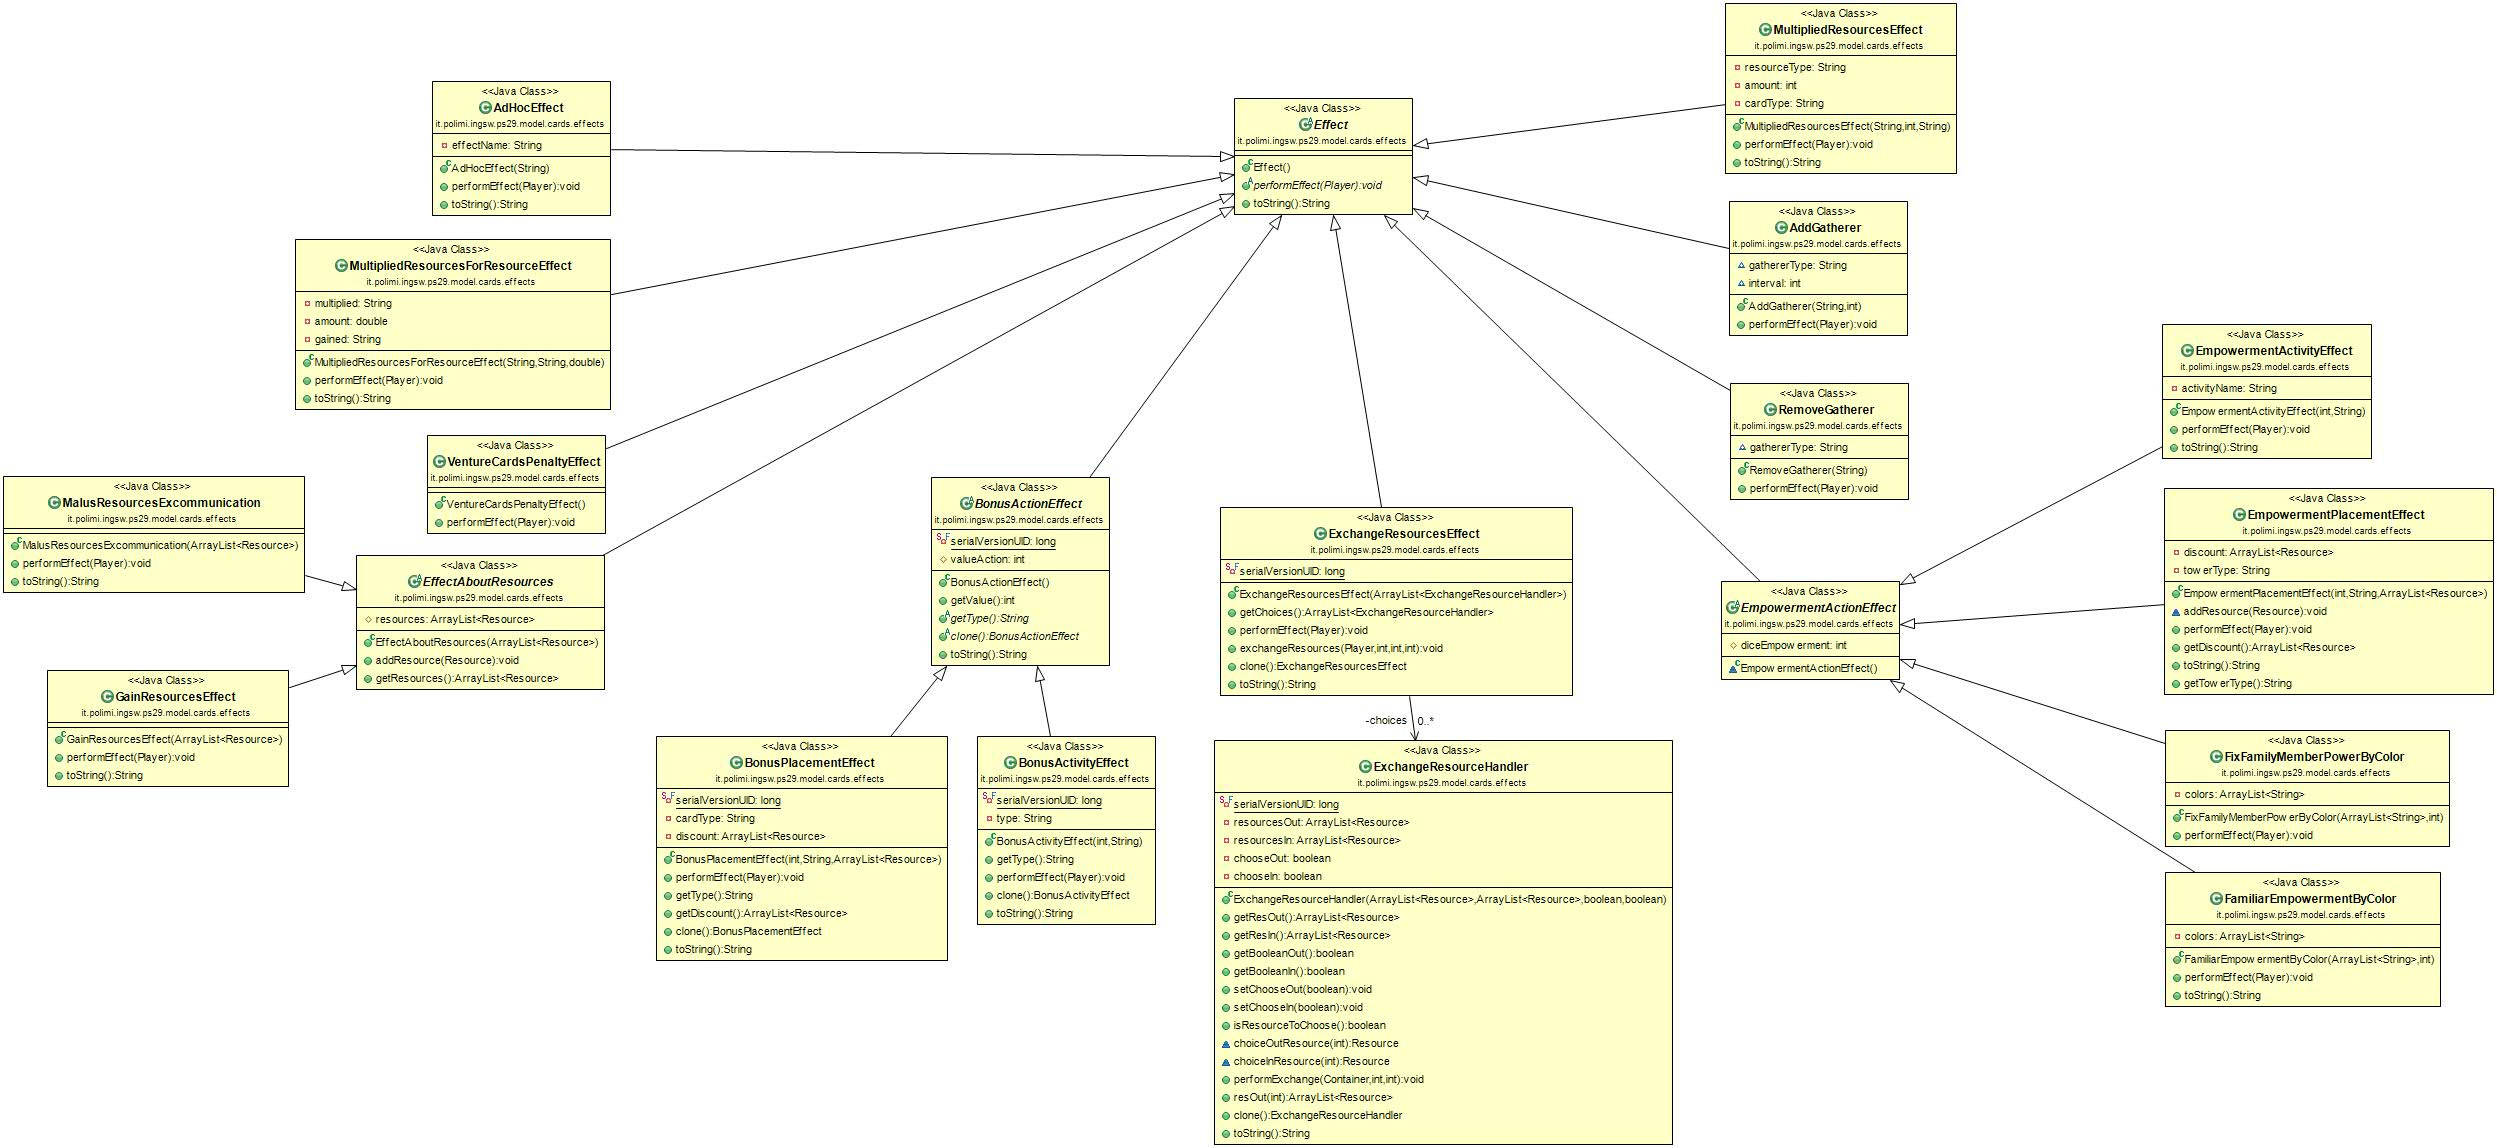
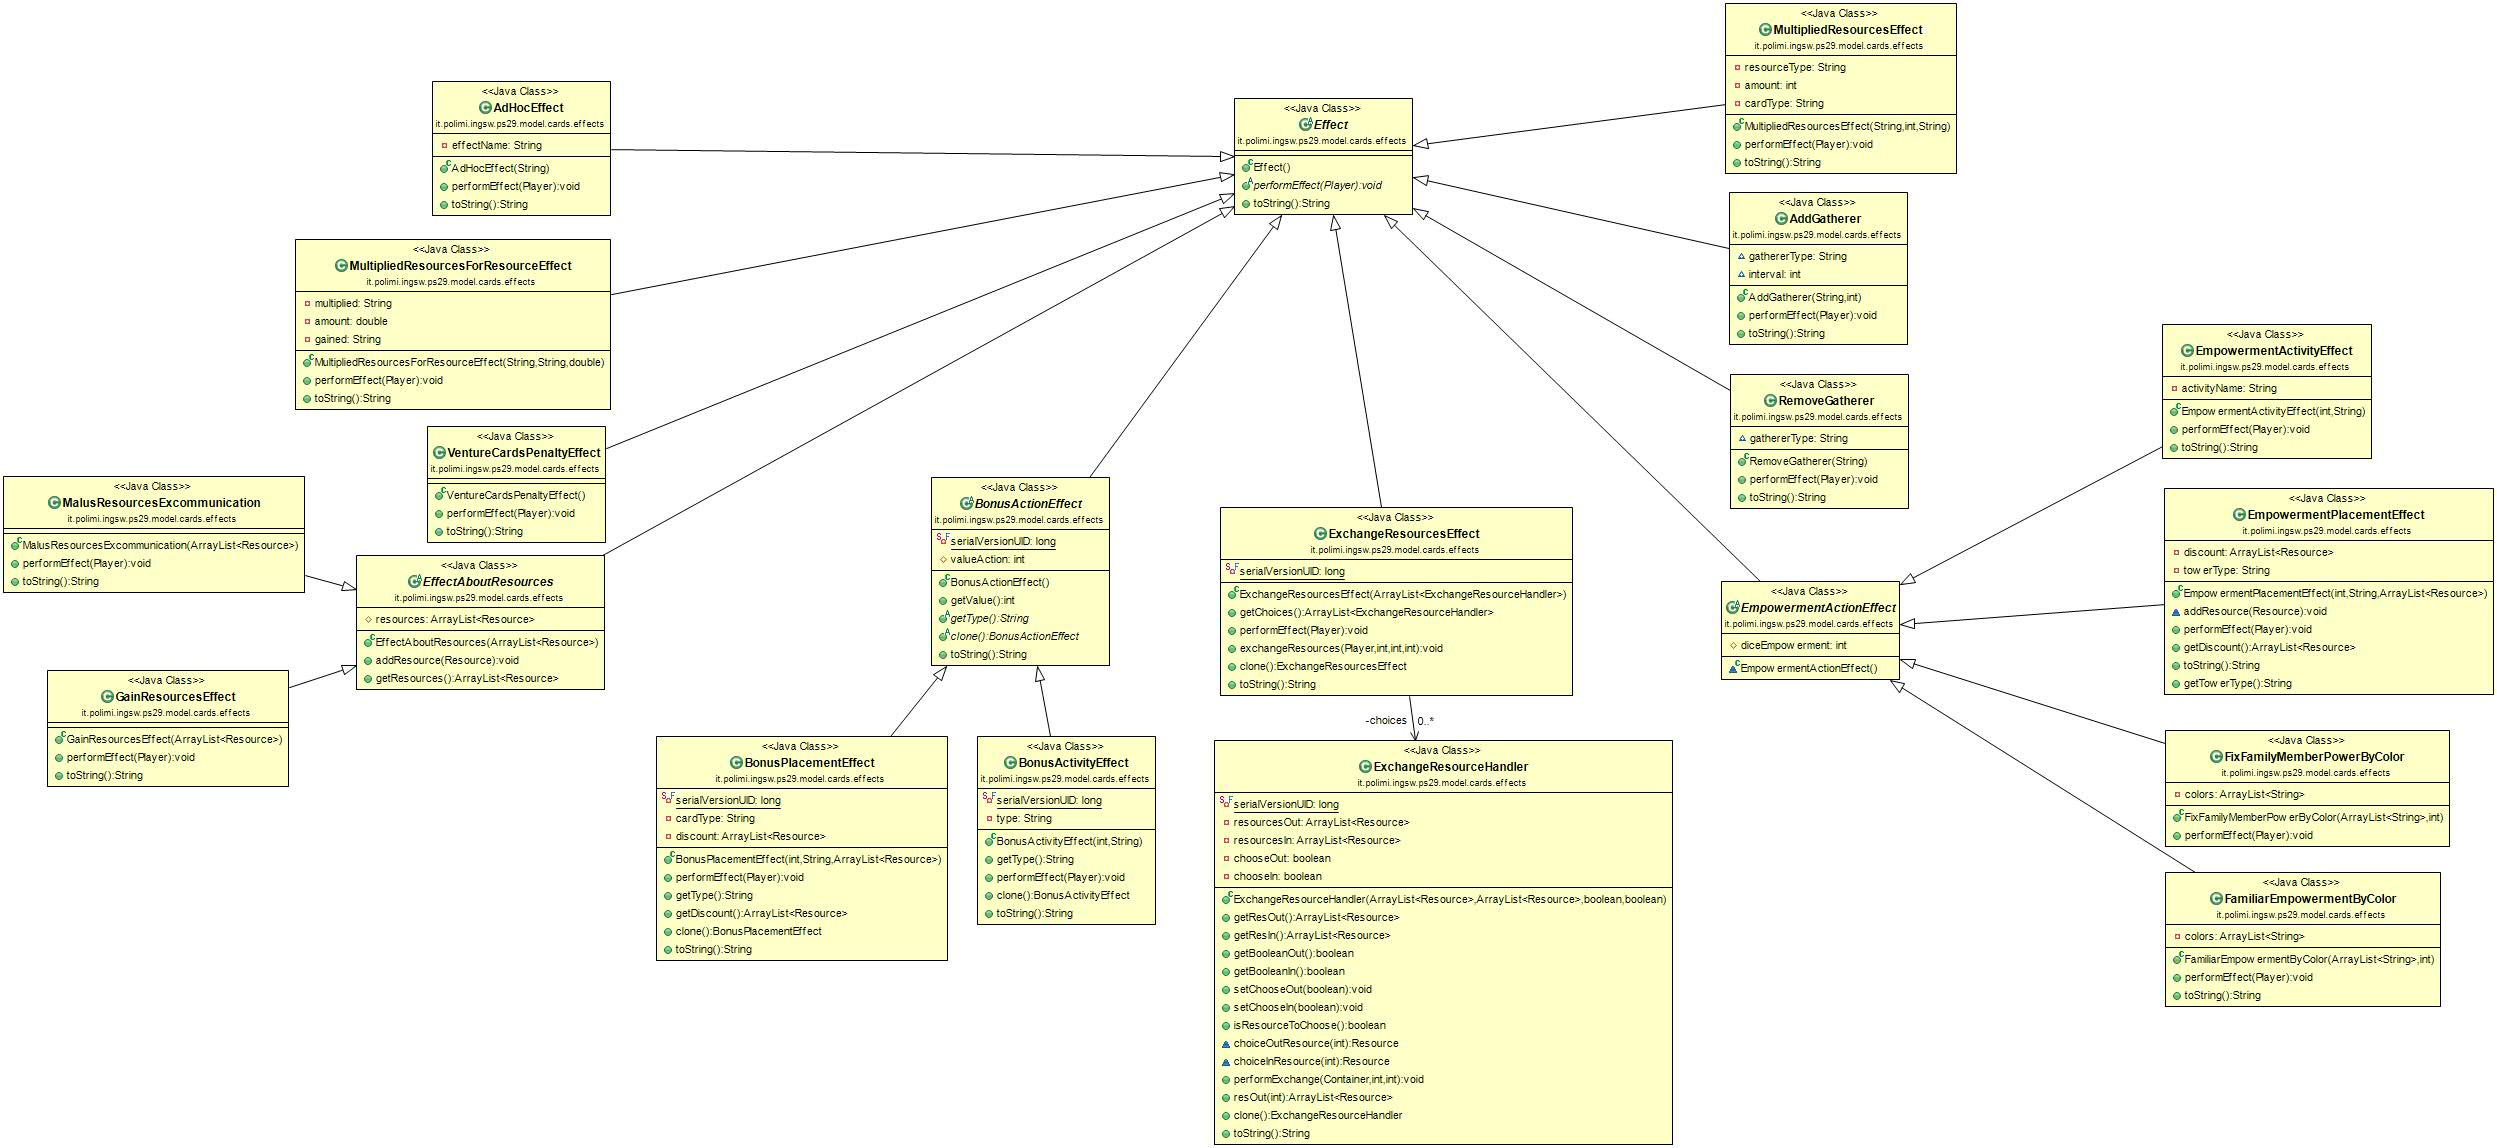
fixes

Changed region(s): [[0.6872, 0.1524, 0.7809, 0.4573], [0.1562, 0.3659, 0.2499, 0.4878]]

diff --git a/src/main/java/it/polimi/ingsw/ps29/view/inputCLI/InputOutputCLI.java b/src/main/java/it/polimi/ingsw/ps29/view/inputCLI/InputOutputCLI.java
@@ -326,9 +326,14 @@ public class InputOutputCLI implements InputOutput {
 		}
 		
 	}
+	/**
+	 * shows leader cards
+	 * @param leaderSituation
+	 * @return leadersituation with player choices
+	 */
 
 	public ArrayList<ArrayList<Object>> askLeader(ArrayList<ArrayList<Object>> leaderSituation) {
-		// TODO Auto-generated method stub
+		
 		int choice = 0;
 		int secondChoice = 0;
 		
@@ -366,7 +371,11 @@ public class InputOutputCLI implements InputOutput {
 		return leaderSituation;
 	}
 	
-	//print possible actions for leader cards
+	/**shows what is possible to do with a selected leader card
+	 * 
+	 * @param card
+	 * @return ArrayList with player choice
+	 */
 	private ArrayList<String> printCorrectOptions(ArrayList<Object> card){
 		ArrayList<String> toShow = new ArrayList<String>();
 		toShow.add("DO NOTHING");

diff --git a/src/main/java/it/polimi/ingsw/ps29/model/cards/effects/AddGatherer.java b/src/main/java/it/polimi/ingsw/ps29/model/cards/effects/AddGatherer.java
@@ -23,5 +23,22 @@ public class AddGatherer extends Effect{
 		// TODO Auto-generated method stub
 		player.addGatherer(gathererType, interval);
 	}
+	
+	@Override
+	public String toString(){
+		String msg = "you will be penalized by ";
+		switch(gathererType){
+		case("victory") :msg +=  + interval +" victory point every five victory points";
+				break;
+		case("military") :msg += + interval +" victory point for each  military point";
+		    break;
+		case("cost") :msg +=  + interval +" victory point wood or stone in yor building cards costs";
+	    	break;
+		case("resourcepenalty") :msg +=  + interval +" victory point for each resource";
+    	    break;
+	}
+		return msg;
 
-}
+	}
+	
+	}

diff --git a/src/main/java/it/polimi/ingsw/ps29/model/cards/effects/RemoveGatherer.java b/src/main/java/it/polimi/ingsw/ps29/model/cards/effects/RemoveGatherer.java
@@ -21,5 +21,18 @@ public class RemoveGatherer extends Effect{
 		// TODO Auto-generated method stub
 		player.removeGatherer(gathererType);
 	}
+	
+	@Override
+	public String toString(){
+		String msg = "you won't get victory points for your ";
+		switch(gathererType){
+		case("territory") :msg += " territory cards";
+				break;
+		case("character") :msg +=" character cards";
+		    break;
+	}
+		return msg;
+
+	}
 
 }

diff --git a/src/main/java/it/polimi/ingsw/ps29/model/game/roundstates/RoundSetupState.java b/src/main/java/it/polimi/ingsw/ps29/model/game/roundstates/RoundSetupState.java
@@ -73,7 +73,10 @@ public class RoundSetupState implements RoundState {
 		}
 		
 	}
-	
+	/**
+	 * allows the player to reactivate leader cards wich are not permanent
+	 * @param match
+	 */
 	private void flipLeaderCards(Match match){
 		for (Player player : match.getBoard().getPlayers()){
 			if (!player.getPersonalBoard().getActivatedLeaderCards().isEmpty()){

diff --git a/src/main/java/it/polimi/ingsw/ps29/model/cards/effects/VentureCardsPenaltyEffect.java b/src/main/java/it/polimi/ingsw/ps29/model/cards/effects/VentureCardsPenaltyEffect.java
@@ -15,5 +15,13 @@ public class VentureCardsPenaltyEffect extends Effect{
 		// TODO Auto-generated method stub
 		player.setVentureCardPenalty();
 	
-}
+	}
+	
+	@Override
+	public String toString(){
+		String msg = "you won't get victory points from your venture cards ";
+
+		return msg;
+
+	}
 }

diff --git a/src/main/java/it/polimi/ingsw/ps29/model/action/LeaderAction.java b/src/main/java/it/polimi/ingsw/ps29/model/action/LeaderAction.java
@@ -51,7 +51,9 @@ public class LeaderAction extends Action{
 		return state;
 	}
 	
-
+/**
+ * leader cards will be moved in different decks depending on user choice
+ */
 	@Override
 	void performAction() {
 				
